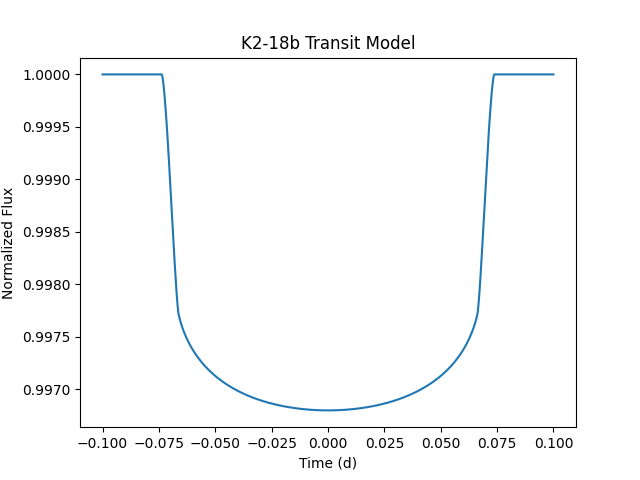
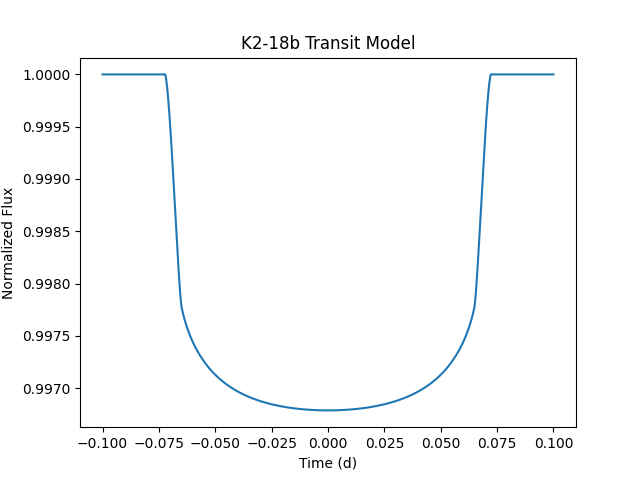
- Updated parameters for K2-18b, switching to quadratic limb darkening for 0.7554um - rp and a only calculated from st_rad if listed as 0 in parameters

diff --git a/src/daneel/detection/transit.py b/src/daneel/detection/transit.py
@@ -8,15 +8,15 @@ paramsdic = {
     "t0": 0.,
     "per": 32.9,
     "rp_e": 2.37,
-    "rp": 0, #0.05 times st_rad
+    "rp": 0.05, # 0.05 times st_rad
     "a_au": 0.1429,
-    "a": 0,   #75 times st_rad
-    "inc": 90.,
-    "ecc": 0.,
-    "w": 90.,
-    "limb_dark": "nonlinear",
-    "u": [0.5, 0.1, 0.1, -0.1],
-    "st_rad": 0.411
+    "a": 75,   # 75 times st_rad
+    "inc": 90.,     # take to be 90, not listed in NEA default entry
+    "ecc": 0.2,
+    "w": 0.,    # take to be 0, -5 deg in NEA
+    "limb_dark": "quadratic",
+    "u": [0.244, 0.286],
+    "st_rad": 0.411     # host star radius, in solar radii
 }
 
 # Function to convert pl_rad to function of planetary radius
@@ -27,9 +27,11 @@ def radius_convert(pl_rade, st_rad, rade_per_radsol = 109): #Can change conversi
 def semimajor_convert(pl_a, st_rad, radsol_per_au = 215.032):
     return (pl_a * radsol_per_au) / st_rad
 
-# Convert radius and a to proper units for batman
-paramsdic["rp"] = radius_convert(paramsdic["rp_e"], paramsdic["st_rad"])
-paramsdic["a"] = semimajor_convert(paramsdic["a_au"], paramsdic["st_rad"])
+# Convert radius and a to proper units for batman, if rp and a not given
+if paramsdic["rp"] == 0:
+    paramsdic["rp"] = radius_convert(paramsdic["rp_e"], paramsdic["st_rad"])
+if paramsdic["a"] == 0:
+    paramsdic["a"] = semimajor_convert(paramsdic["a_au"], paramsdic["st_rad"])
 
 params = batman.TransitParams()    #Create params object
 
@@ -57,7 +59,7 @@ flux = m.light_curve(params)
 
 plt.plot(t, flux)
 plt.title(paramsdic["pl_name"] + ' Transit Model')
-plt.xlabel('Time (d)')      # I think the time is in days, but I'm not sure :/
+plt.xlabel('Time (d)')      # Pretty sure the units are days
 plt.ylabel('Normalized Flux')
 plt.savefig(paramsdic["pl_name"] + '_assignment1_taskF.png')
 plt.show()
